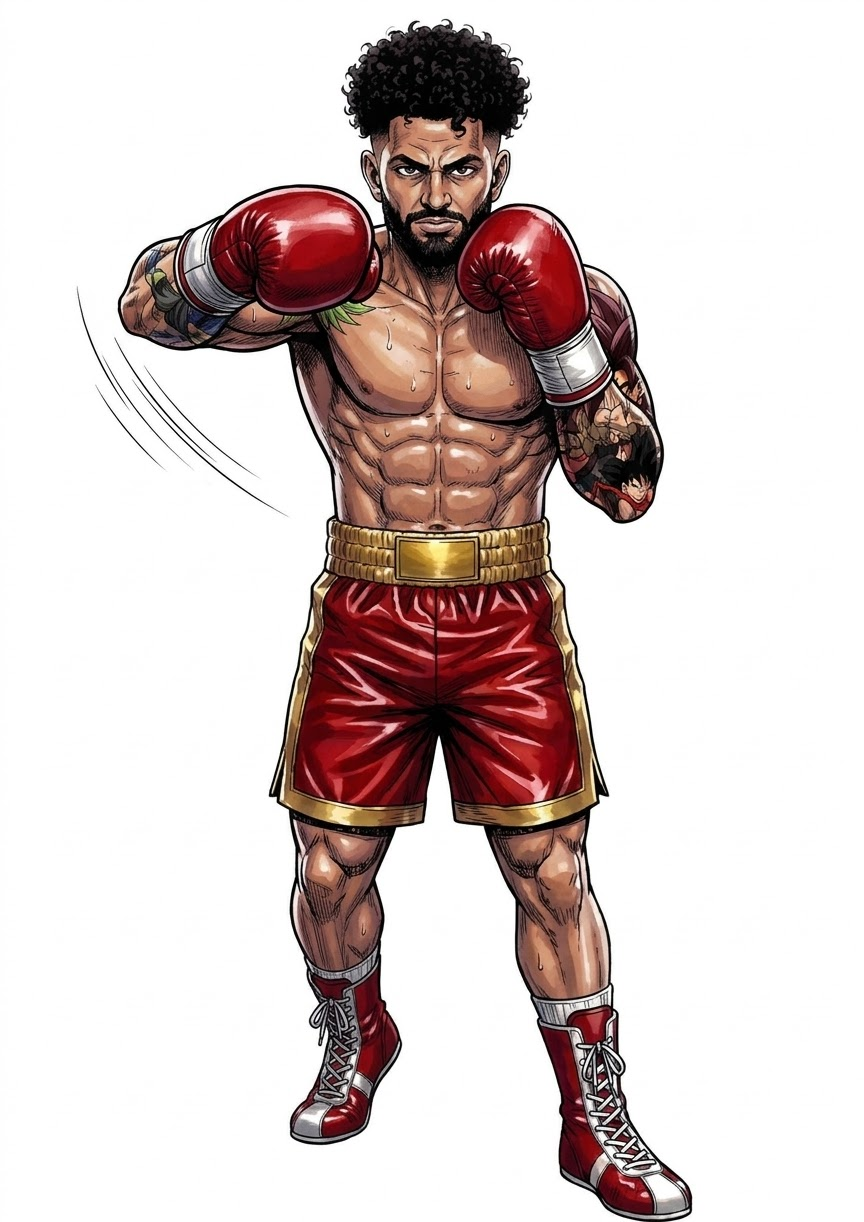
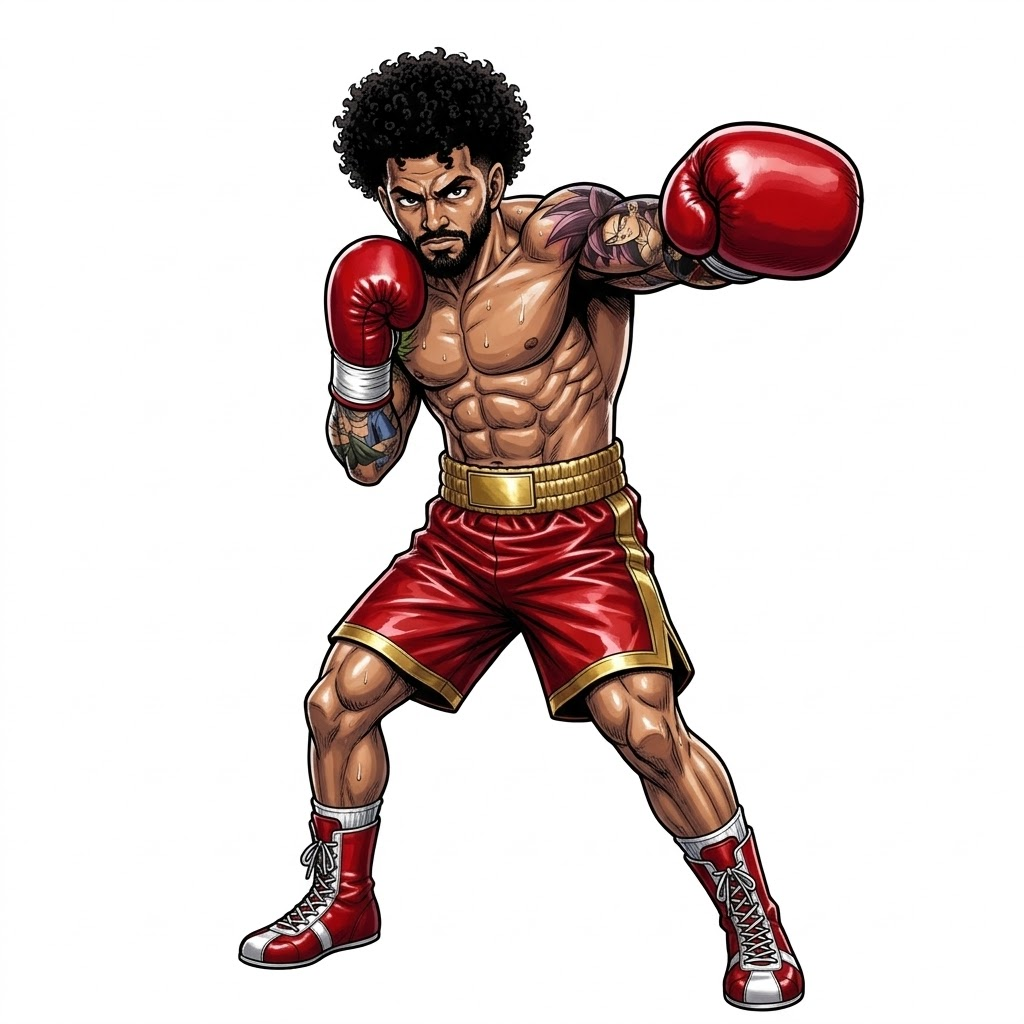
Greg : crochet DE FACE branché (gant en avant, plus sur le côté)
Claude-Session: https://claude.ai/code/session_01Nh56uCfCYFQpr6HwXFtrQ7

diff --git a/src/bosses/greg/reglages.js b/src/bosses/greg/reglages.js
@@ -52,7 +52,7 @@ export const REGLAGES = {
       nargue:     { cle: 'greg2_nargue',      origine: [0.418, 1], taille: 0.78, pied: true },   // langue tirée, bras ballants
       tapeGants:  { cle: 'greg2_tape_gants',  origine: [0.496, 1], taille: 0.78, pied: true },   // avant le SMASH
       jab:        { cle: 'greg2_jab',         origine: [0.625, 1], taille: 0.78, pied: true, cote: 'g' },   // DE FACE : gant vers toi
-      crochet:    { cle: 'greg2_crochet',     origine: [0.582, 1], taille: 0.78, pied: true, cote: 'g' },
+      crochet:    { cle: 'greg2_crochet',     origine: [0.320, 1], taille: 0.78, pied: true, cote: 'd' },   // DE FACE : gant en avant, à droite
       corpsPied:  { cle: 'greg2_corps',       origine: [0.732, 1], taille: 0.78, pied: true, cote: 'g' },   // DE FACE : accroupi, gant au ventre
       smash:      { cle: 'greg2_smash',       origine: [0.636, 1], taille: 0.78, pied: true },
       touche:     { cle: 'greg2_touche',      origine: [0.616, 1], taille: 0.78, pied: true },

diff --git a/src/bosses/greg/manifeste.js b/src/bosses/greg/manifeste.js
@@ -35,7 +35,7 @@ export const MANIFESTE = {
     greg2_smash: { fichier: 'sprites/greg/greg2_smash.png', largeur: 331, hauteur: 561, images: 1, vitesse: 1 },
     greg2_touche: { fichier: 'sprites/greg/greg2_touche.png', largeur: 360, hauteur: 545, images: 1, vitesse: 1 },
     greg2_etourdi: { fichier: 'sprites/greg/greg2_etourdi.png', largeur: 237, hauteur: 560, images: 1, vitesse: 1 },
-    greg2_crochet: { fichier: 'sprites/greg/greg2_crochet.png', largeur: 287, hauteur: 560, images: 1, vitesse: 1 },
+    greg2_crochet: { fichier: 'sprites/greg/greg2_crochet.png', largeur: 353, hauteur: 545, images: 1, vitesse: 1 },
     greg2_garde_basse: { fichier: 'sprites/greg/greg2_garde_basse.png', largeur: 231, hauteur: 560, images: 1, vitesse: 1 },
     greg2_ko_debout: { fichier: 'sprites/greg/greg2_ko_debout.png', largeur: 237, hauteur: 560, images: 1, vitesse: 1 },
     greg2_victoire: { fichier: 'sprites/greg/greg2_victoire.png', largeur: 318, hauteur: 559, images: 1, vitesse: 1 },

diff --git a/outils/greg/preparer_v2.py b/outils/greg/preparer_v2.py
@@ -44,7 +44,7 @@ images = {p: detourer(Image.open(f'{SRC}/greg_{p}.jpg')) for p in POSES}
 # Poses dessinées à une autre échelle (autre format d'image) : on les met à la taille de la TÊTE de "entier"
 # (largeur des cheveux noirs en haut du personnage).
 A_LA_TETE = ['corps']   # nov. 2026 : coup au corps DE FACE (accroupi : on se cale sur la tête)
-A_LA_HAUTEUR = {'jab': 545}   # jab DE FACE (debout, tête dessinée plus grosse : on se cale sur la hauteur)
+A_LA_HAUTEUR = {'jab': 545, 'crochet': 545}   # jab DE FACE (debout, tête dessinée plus grosse : on se cale sur la hauteur)
 def largeur_tete(im):
     a = np.asarray(im.crop(im.getbbox()))
     al = a[:, :, 3] > 128; noir = (a[:, :, :3].max(axis=2) < 70) & al

diff --git a/propositions/greg_prompts_images.md b/propositions/greg_prompts_images.md
@@ -365,5 +365,5 @@ white margin on all four sides. Plain pure white background, no text, no motion 
 POSE: <ligne POSE>
 ```
 - **greg_jab.jpg** (REÇU et branché) : `copy the pose of the 2nd figure of the second image: straight punch thrown at the viewer with the glove on the LEFT side of the picture, huge glove in the foreground hiding part of his shoulder, other glove guarding the chin, legs apart.`
-- **greg_crochet.jpg** : `copy the pose of the 3rd figure of the second image: powerful punch thrown at the viewer with the glove on the RIGHT side of the picture, torso turned, big glove in the foreground at face height, other glove guarding the chin, knees bent.`
+- **greg_crochet.jpg** (REÇU et branché) : `copy the pose of the 3rd figure of the second image: powerful punch thrown at the viewer with the glove on the RIGHT side of the picture, torso turned, big glove in the foreground at face height, other glove guarding the chin, knees bent.`
 - **greg_corps.jpg** (REÇU et branché) : `copy the pose of the 4th figure of the second image: crouched low, driving an uppercut at the viewer's stomach, glove big in the foreground at belly height, other glove guarding the chin, angry face.`

diff --git a/NOTES.md b/NOTES.md
@@ -60,7 +60,7 @@
   dans `assets_inbox/greg_v2/` (`_ancien`, `_rate`). Outil : `python3 outils/greg/preparer_v2.py`.
 - Coups DE FACE (gant vers le joueur) : `greg2_jab` et `greg2_corps` remplacés (anciens « de côté » gardés en
   `assets_inbox/greg_v2/*_cote.jpg`) ; `preparer_v2.py` les met à l'échelle (jab : hauteur 545 ; corps : taille de la tête).
-  Le crochet reste l'image « de côté » (prompt « COUPS DE FACE » pour le refaire).
+  Crochet DE FACE aussi (`greg2_crochet`, hauteur 545 ; ancien en `greg_crochet_cote.jpg`).
 - `greg2_releve` branché : pose prise 1,1 s quand Greg se relève (il monte du tapis).
 - RESTE : poses du héros, portrait / visage / case K.O. / trophée / arbitre
   (prompts dans `propositions/greg_prompts_images.md`).
